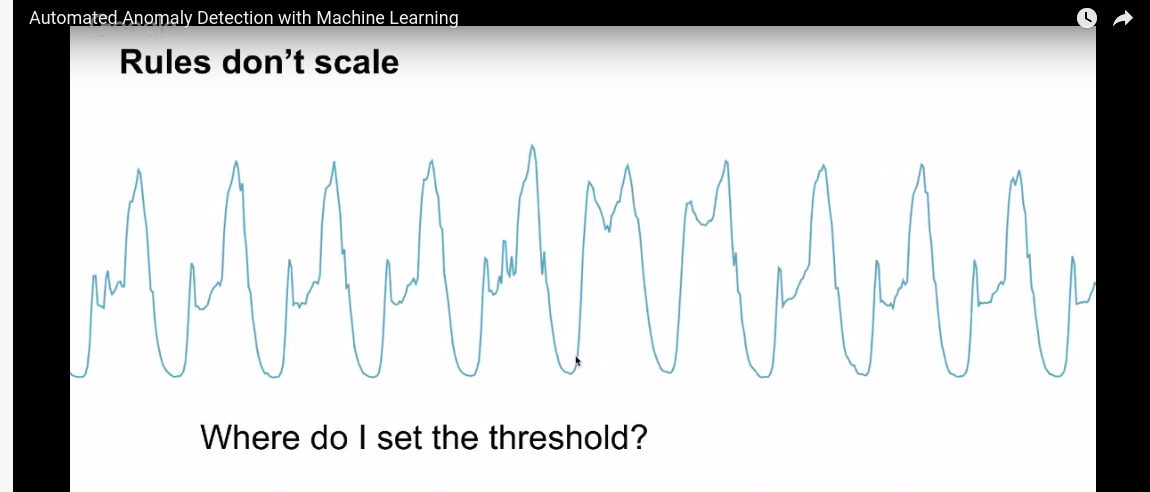
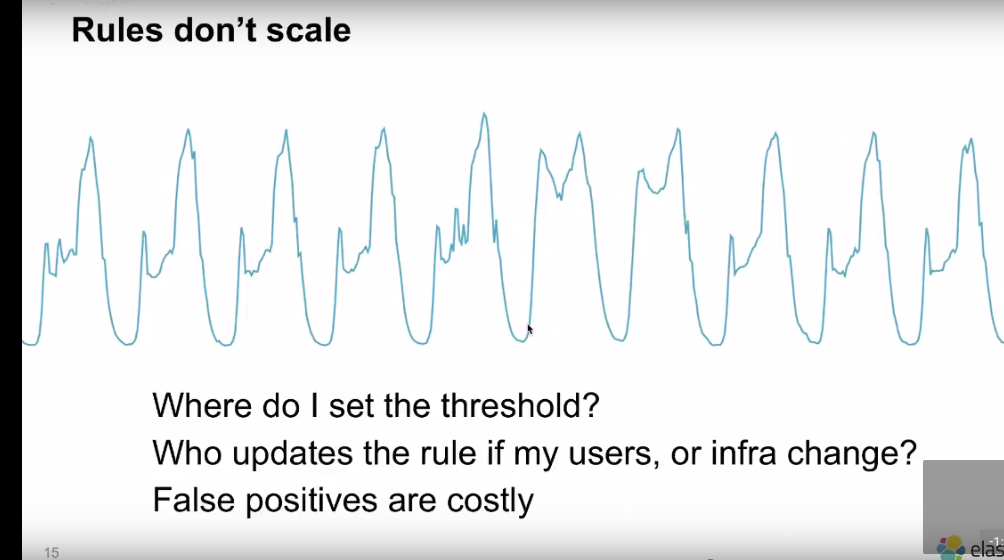
pics

diff --git a/README.md b/README.md
@@ -1,8 +1,11 @@
 # DeepAnomaly
 Main repository for GSOC-2017 project under CERN-HSF (https://summerofcode.withgoogle.com/projects/#4916590398144512)
 
+![](https://github.com/vyomshm/DeepAnomaly/blob/master/automated.png)
+
 ## Useful links-
 
 * Elastic.co - [Machine Learning and Statistical Methods for Time Series Analysis](https://www.elastic.co/elasticon/conf/2017/sf/machine-learning-and-statistical-methods-for-time-series-analysis)
 * Elastic.co - [official code examples by elastic.co - examples/machine-learning](https://github.com/vyomshm/examples)
 * Elastic.co - [X-PACK product overview. NOte-plugin not available in elastic cloud as of now](https://www.elastic.co/webinars/automated-anomaly-detection-with-machine-learning?ultron=machine-learning-webinar&blade=confirmation&hulk=email)
+
